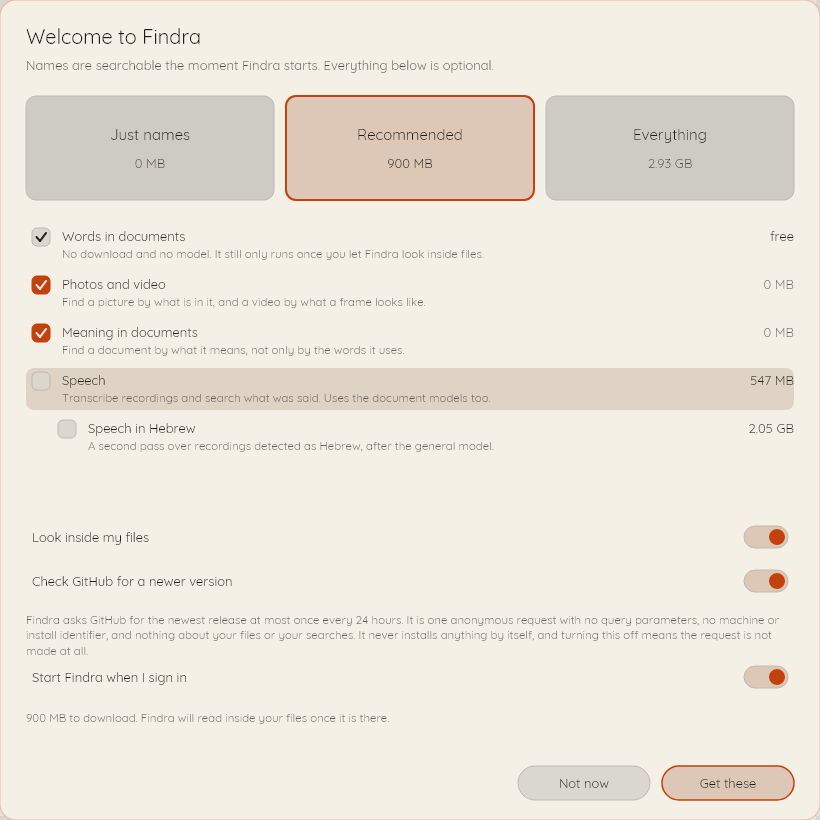
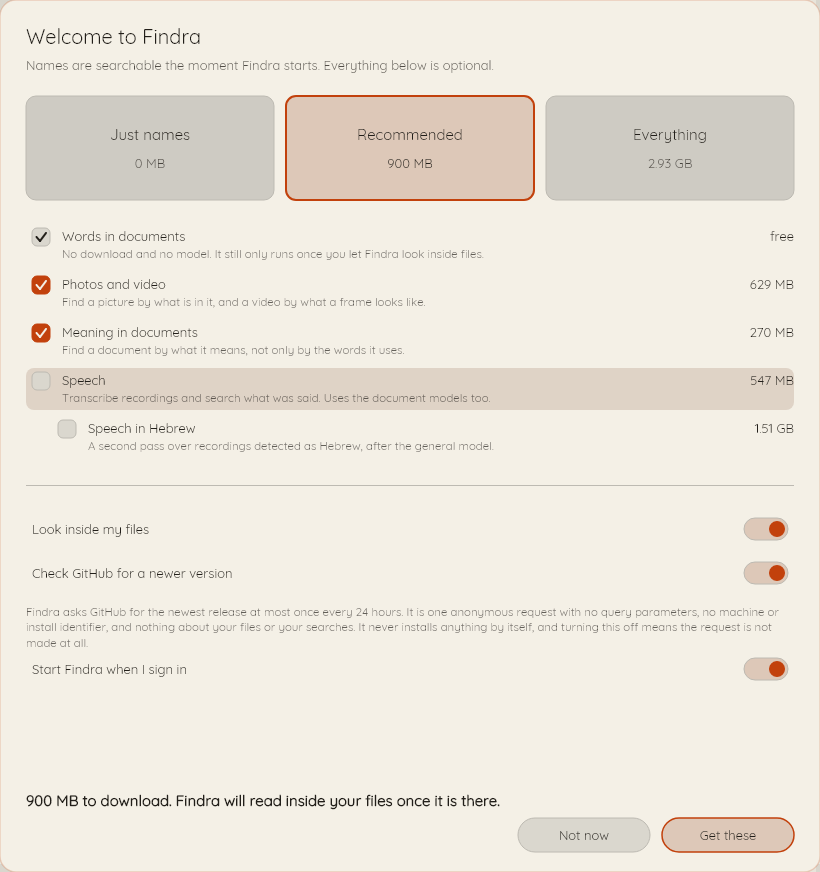
The website gets a section, and its screenshots stop lying
CLAUDE.md had nothing about website/ at all. Its rules existed only as a CHANGELOG
bullet, which is not where somebody about to edit the site will look: no build
step and nothing in this repository deploying it, the CSP that permits two font
hosts and nothing else, and the fact that the site names Windows Search on purpose
while the README may not - a rule scoped to the README and the manifest, which a
test enforces, and which reads as a contradiction until it is written down.

Writing it turned up the reason it needed writing. docs/shots and
website/public/shots are two copies of the same renders with no test between them,
and three of them had drifted: the site was serving an adv, a firstrun and a
settingscontent from an older build while printing the command that produces the
current ones. Its Settings picture was missing "Start reading now" and "Indexing
power", so the page advertised a smaller product than the one it was selling,
under a heading that says "Every picture below is the product".

All six regenerated in both directories, and cmp now agrees on every one.

diff --git a/CLAUDE.md b/CLAUDE.md
@@ -262,6 +262,58 @@ The README was written last, out of the surfaces and the benchmark. Every image 
 `--searchshot` render with the command that produced it printed underneath; regenerate by
 running the command, never by hand-editing an image.
 
+## The website
+
+`website/public` is the whole site: plain static files, no build step, no framework, no package
+manifest. **Nothing in this repository deploys it** - there is no workflow for it and `ci.yml`,
+`release.yml` and `winget.yml` never touch it. Netlify watches `main` and publishes
+`website/public` as it sits, so a push is a deploy and `netlify.toml` - a publish directory and
+some headers - is the entire configuration. A build step would add a toolchain to a repository
+that is otherwise .NET and PowerShell, and is a thing to argue for rather than introduce.
+
+It carries the README's two rules, and it says so on the page: the shots section is headed
+"Every picture below is the product". So a hand-edited image does not just mislead, it makes the
+page lie about itself.
+
+- **`docs/shots` and `website/public/shots` are two copies of the same renders and are
+  regenerated together.** They are separate files with no test between them, and they had
+  silently drifted: the site served an `adv`, a `firstrun` and a `settingscontent` from an older
+  build while printing the command that produces the current ones. Its Settings picture was
+  missing "Start reading now" and "Indexing power" - two controls the product had gained - so
+  the page was advertising a smaller product than the one it was selling. When a surface
+  changes, regenerate **both** directories, and `cmp` them.
+- **Every number is a `--searchbench` measurement** beside the machine that produced it, as in
+  the README.
+
+**The content security policy is a promise the page makes about itself.** A page selling
+"nothing leaves your machine" must not itself be reaching out, so `netlify.toml` permits
+`fonts.googleapis.com` for stylesheets and `fonts.gstatic.com` for the font files and nothing
+else: `script-src 'self'`, `connect-src 'none'`, `img-src 'self' data:`. No analytics, no
+beacons, no third-party script, no CDN. A `data:` URI is allowed, which is how the header mark is
+inlined; an external image host is not. Anything that needs a new origin in that header is a
+decision to put to somebody, not a detail to add.
+
+**The site names Windows Search and the README may not.** "No comparative claims against named
+competitors" above is scoped to the README and the winget listing, and `Repo.Competitors`
+enforces it for both. The site is written in a different voice on purpose: its `h1` is the joke,
+and the section under it is a Windows Search dialog failing to find a file. That is deliberate
+and shipped - do not quietly correct it, and do not carry it back into the README or the
+manifest, where a test will catch it.
+
+**Nothing on it promises a release that does not exist.** The calls to action say Coming soon
+until there is a tag, and `winget install blakazulu.Findra` appears as the route that will work
+rather than as a download offered today.
+
+**One `h1`.** The page opens on the mark, the name and the results card, which runs off the right
+of the window on purpose; the ticket section below it is an `h2` and steps down in size, because
+at hero size the page appeared to start twice. The `<title>` and `og:title` say what that first
+section says. There is no `twitter:title` - the card falls back to `og:title` and follows it.
+
+**Almost none of this is tested.** No test in the suite reads `website/`. The one exception is
+the mark: `IconTests` fails if `favicon.svg` drifts from `assets/icon/findra.svg`, or if the
+header's data URI stops carrying the generated path. Everything else here holds because somebody
+read it, which is why the shots drifted for as long as they did.
+
 ## Architecture
 
 **Three processes.** This split exists from the first commit; retrofitting it means

diff --git a/CHANGELOG.md b/CHANGELOG.md
@@ -373,7 +373,10 @@ into a numbered section on the first release.
   hosts and nothing else - no analytics, no beacons, and no way for one to arrive by accident.
   The page opens on the mark, the name and the results card, with the card running off the right
   of the screen rather than stopping at a gutter; the ticket that used to open it now follows it,
-  and the page title and the link preview say the same thing the page now opens on.
+  and the page title and the link preview say the same thing the page now opens on. Three of its
+  screenshots had drifted from the ones in `docs/shots` while still printing the command that
+  produces the current renders - the Settings picture was missing two controls the product had
+  gained - so all six were regenerated and the two directories now agree.
 
 - **The results card previews the photograph it found.** The stage's picture - the centre-crop
   that shows you the file you are standing on - had never been rendered by any `--searchshot`
